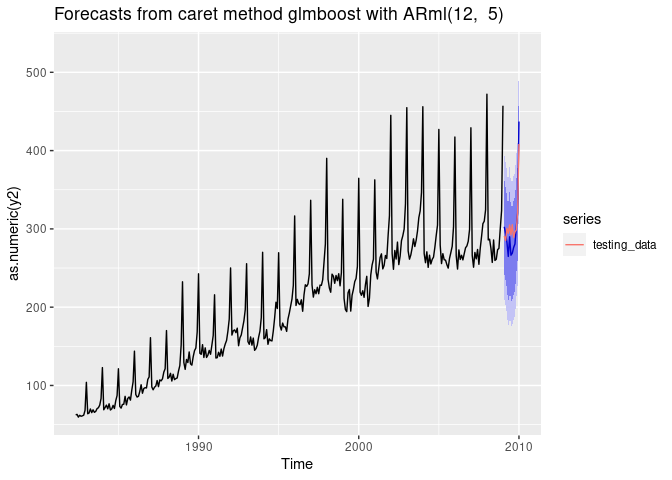
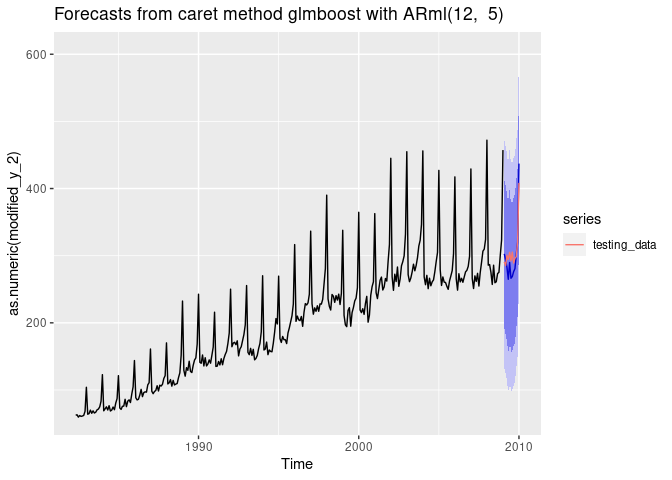
README

diff --git a/README.md b/README.md
@@ -1,8 +1,7 @@
 
 <!-- README.md is generated from README.Rmd. Please edit that file -->
 
-caretForecast
-=============
+# caretForecast
 
 <!-- badges: start -->
 
@@ -12,15 +11,14 @@ status](https://travis-ci.com/Akai01/caretForecast.svg?branch=master)](https://t
 [![CRAN
 status](https://www.r-pkg.org/badges/version/caretForecast)](https://CRAN.R-project.org/package=caretForecast)
 [![Lifecycle:
-maturing](https://img.shields.io/badge/lifecycle-maturing-blue.svg)](https://www.tidyverse.org/lifecycle/#maturing)
+experimental](https://img.shields.io/badge/lifecycle-experimental-orange.svg)](https://www.tidyverse.org/lifecycle/#experimental)
 <!-- badges: end -->
 
 The goal of caretForecast is to provide tools for forecasting time
 series data using various machine learning algorithms. (More details
 will follow…)
 
-Installation
-------------
+## Installation
 
 The development version from [GitHub](https://github.com/) with:
 
@@ -29,8 +27,7 @@ The development version from [GitHub](https://github.com/) with:
 devtools::install_github("Akai01/caretForecast")
 ```
 
-Example
--------
+## Example
 
 ### Note: User can train any caret supported regression model.
 
@@ -72,7 +69,7 @@ accuracy(fc, testing_data)
 
 
 fc_plot(fc) + 
-autolayer(testing_data, series = "testing_data")
+  autolayer(testing_data, series = "testing_data")
 ```
 
 <img src="man/figures/README-example-1.png" width="100%" />
@@ -108,7 +105,7 @@ accuracy(fc, testing_data)
 #> Test set     -0.1450719 0.1701567
 
 fc_plot(fc) + 
-autolayer(testing_data, series = "testing_data")
+  autolayer(testing_data, series = "testing_data")
 ```
 
 <img src="man/figures/README-example-2.png" width="100%" />
@@ -120,7 +117,7 @@ autolayer(testing_data, series = "testing_data")
 
 data(retail_wide, package = "caretForecast")
 
-i <- 5
+i <- 7
 
 dtlist <- caretForecast::split_ts(retail_wide[,i], test_size = 12)
 
@@ -128,21 +125,113 @@ training_data <- dtlist$train
 
 testing_data <- dtlist$test
 
-fit <- ARml(training_data, max_lag = 12, caret_method = "svmLinear", 
+fit <- ARml(training_data, max_lag = 12, caret_method = "svmLinear3", 
             verbose = FALSE)
+#> Warning in LiblineaR::LiblineaR(data = as.matrix(x), target = y, cost =
+#> param$cost, : No value provided for svr_eps. Using default of 0.1
+
+#> Warning in LiblineaR::LiblineaR(data = as.matrix(x), target = y, cost =
+#> param$cost, : No value provided for svr_eps. Using default of 0.1
+
+#> Warning in LiblineaR::LiblineaR(data = as.matrix(x), target = y, cost =
+#> param$cost, : No value provided for svr_eps. Using default of 0.1
+
+#> Warning in LiblineaR::LiblineaR(data = as.matrix(x), target = y, cost =
+#> param$cost, : No value provided for svr_eps. Using default of 0.1
+
+#> Warning in LiblineaR::LiblineaR(data = as.matrix(x), target = y, cost =
+#> param$cost, : No value provided for svr_eps. Using default of 0.1
+
+#> Warning in LiblineaR::LiblineaR(data = as.matrix(x), target = y, cost =
+#> param$cost, : No value provided for svr_eps. Using default of 0.1
+
+#> Warning in LiblineaR::LiblineaR(data = as.matrix(x), target = y, cost =
+#> param$cost, : No value provided for svr_eps. Using default of 0.1
+
+#> Warning in LiblineaR::LiblineaR(data = as.matrix(x), target = y, cost =
+#> param$cost, : No value provided for svr_eps. Using default of 0.1
+
+#> Warning in LiblineaR::LiblineaR(data = as.matrix(x), target = y, cost =
+#> param$cost, : No value provided for svr_eps. Using default of 0.1
+
+#> Warning in LiblineaR::LiblineaR(data = as.matrix(x), target = y, cost =
+#> param$cost, : No value provided for svr_eps. Using default of 0.1
+
+#> Warning in LiblineaR::LiblineaR(data = as.matrix(x), target = y, cost =
+#> param$cost, : No value provided for svr_eps. Using default of 0.1
+
+#> Warning in LiblineaR::LiblineaR(data = as.matrix(x), target = y, cost =
+#> param$cost, : No value provided for svr_eps. Using default of 0.1
+
+#> Warning in LiblineaR::LiblineaR(data = as.matrix(x), target = y, cost =
+#> param$cost, : No value provided for svr_eps. Using default of 0.1
+
+#> Warning in LiblineaR::LiblineaR(data = as.matrix(x), target = y, cost =
+#> param$cost, : No value provided for svr_eps. Using default of 0.1
+
+#> Warning in LiblineaR::LiblineaR(data = as.matrix(x), target = y, cost =
+#> param$cost, : No value provided for svr_eps. Using default of 0.1
+
+#> Warning in LiblineaR::LiblineaR(data = as.matrix(x), target = y, cost =
+#> param$cost, : No value provided for svr_eps. Using default of 0.1
+
+#> Warning in LiblineaR::LiblineaR(data = as.matrix(x), target = y, cost =
+#> param$cost, : No value provided for svr_eps. Using default of 0.1
+
+#> Warning in LiblineaR::LiblineaR(data = as.matrix(x), target = y, cost =
+#> param$cost, : No value provided for svr_eps. Using default of 0.1
+
+#> Warning in LiblineaR::LiblineaR(data = as.matrix(x), target = y, cost =
+#> param$cost, : No value provided for svr_eps. Using default of 0.1
+
+#> Warning in LiblineaR::LiblineaR(data = as.matrix(x), target = y, cost =
+#> param$cost, : No value provided for svr_eps. Using default of 0.1
+
+#> Warning in LiblineaR::LiblineaR(data = as.matrix(x), target = y, cost =
+#> param$cost, : No value provided for svr_eps. Using default of 0.1
+
+#> Warning in LiblineaR::LiblineaR(data = as.matrix(x), target = y, cost =
+#> param$cost, : No value provided for svr_eps. Using default of 0.1
+
+#> Warning in LiblineaR::LiblineaR(data = as.matrix(x), target = y, cost =
+#> param$cost, : No value provided for svr_eps. Using default of 0.1
+
+#> Warning in LiblineaR::LiblineaR(data = as.matrix(x), target = y, cost =
+#> param$cost, : No value provided for svr_eps. Using default of 0.1
+
+#> Warning in LiblineaR::LiblineaR(data = as.matrix(x), target = y, cost =
+#> param$cost, : No value provided for svr_eps. Using default of 0.1
+
+#> Warning in LiblineaR::LiblineaR(data = as.matrix(x), target = y, cost =
+#> param$cost, : No value provided for svr_eps. Using default of 0.1
+
+#> Warning in LiblineaR::LiblineaR(data = as.matrix(x), target = y, cost =
+#> param$cost, : No value provided for svr_eps. Using default of 0.1
+
+#> Warning in LiblineaR::LiblineaR(data = as.matrix(x), target = y, cost =
+#> param$cost, : No value provided for svr_eps. Using default of 0.1
+
+#> Warning in LiblineaR::LiblineaR(data = as.matrix(x), target = y, cost =
+#> param$cost, : No value provided for svr_eps. Using default of 0.1
+
+#> Warning in LiblineaR::LiblineaR(data = as.matrix(x), target = y, cost =
+#> param$cost, : No value provided for svr_eps. Using default of 0.1
+
+#> Warning in LiblineaR::LiblineaR(data = as.matrix(x), target = y, cost =
+#> param$cost, : No value provided for svr_eps. Using default of 0.1
 
 forecast(fit, h = length(testing_data), level = c(95,80))-> fc
 
 accuracy(fc, testing_data)
-#>                        ME     RMSE      MAE       MPE     MAPE      MASE
-#> Training set -0.004996011 5.218181 3.980904 -0.333970 4.500042 0.5563544
-#> Test set     -7.264572944 9.403773 7.652439 -8.319266 8.642448 1.0694725
-#>                    ACF1 Theil's U
-#> Training set 0.02901247        NA
-#> Test set     0.22464379 0.7207839
+#>                    ME     RMSE      MAE       MPE     MAPE      MASE       ACF1
+#> Training set 1.145920 11.71421 8.462603 0.6001636 6.051356 0.5466249  0.6159196
+#> Test set     2.444332 10.91173 8.269755 0.5648584 2.905481 0.5341683 -0.2357609
+#>              Theil's U
+#> Training set        NA
+#> Test set     0.4462313
 
 fc_plot(fc) + 
-autolayer(testing_data, series = "testing_data")
+  autolayer(testing_data, series = "testing_data")
 ```
 
 <img src="man/figures/README-example-3.png" width="100%" />
@@ -159,27 +248,27 @@ get_var_imp(fc, plot = F)
 #> 
 #>   only 20 most important variables shown (out of 22)
 #> 
-#>        Overall
-#> lag12 100.0000
-#> lag3   81.1655
-#> lag1   79.2218
-#> lag2   78.2771
-#> lag5   75.4255
-#> lag9   74.8507
-#> lag10  74.3075
-#> lag4   73.4707
-#> lag7   71.2428
-#> lag11  69.4001
-#> lag8   69.3380
-#> lag6   66.1550
-#> S5-12   6.4068
-#> S3-12   3.9841
-#> S1-12   3.8337
-#> C4-12   3.6437
-#> C3-12   2.1007
-#> S4-12   1.6039
-#> C2-12   0.9426
-#> C5-12   0.4801
+#>         Overall
+#> lag1  100.00000
+#> lag12  99.74827
+#> lag2   97.78807
+#> lag3   97.74610
+#> lag4   97.10962
+#> lag5   97.08285
+#> lag7   96.20291
+#> lag11  95.90430
+#> lag6   95.80115
+#> lag8   95.68963
+#> lag9   95.38585
+#> lag10  94.50733
+#> C1-12   0.68853
+#> S3-12   0.60001
+#> C2-12   0.50234
+#> C4-12   0.44290
+#> S5-12   0.41720
+#> S1-12   0.40638
+#> S2-12   0.09599
+#> C5-12   0.05234
 
 
 
@@ -208,7 +297,7 @@ accuracy(fc, testing_data)
 #> Test set     0.389409945 0.6513039
 
 fc_plot(fc) + 
-autolayer(testing_data, series = "testing_data")
+  autolayer(testing_data, series = "testing_data")
 ```
 
 <img src="man/figures/README-example-5.png" width="100%" />
